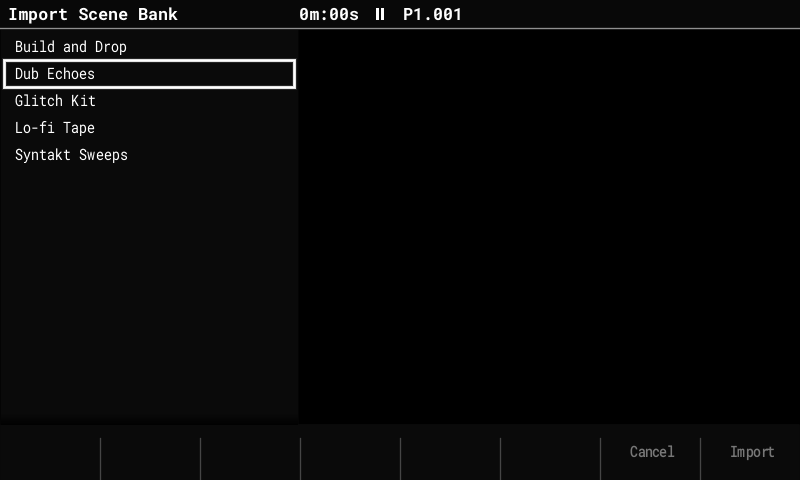
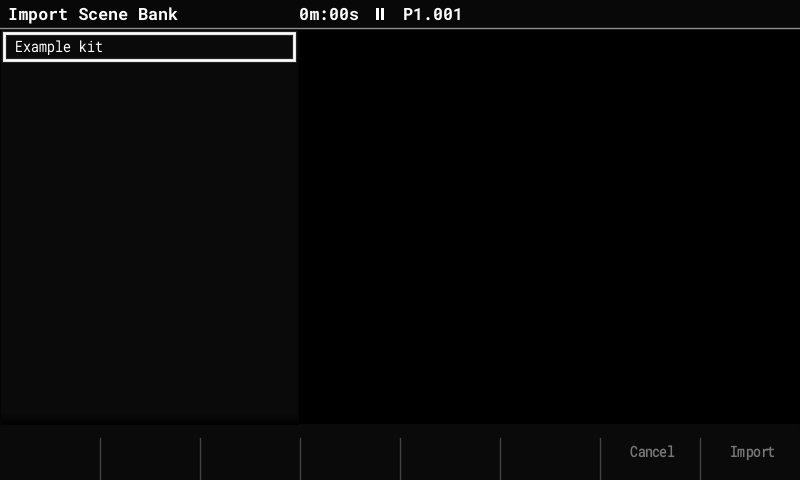
Scene banks: drop the example banks
The user builds their own. The docs screenshot uses one small generated
bank.

Changed region(s): [[0.0, 0.0625, 0.375, 0.2188], [0.0, 0.3125, 0.1562, 0.3438], [0.0, 0.25, 0.125, 0.2812]]

diff --git a/tests/perf_bank_test.cpp b/tests/perf_bank_test.cpp
@@ -1,11 +1,7 @@
 // [I] #70 Performance scene banks: the Performance/Scenes/<name>.txt text
-// format, App load / save, the bank page's F5 Export / F6 Import, and the
-// shipped banks in scene_banks/.
+// format, App load / save and the bank page's F5 Export / F6 Import.
 #include <cstring>
-#include <filesystem>
-#include <fstream>
 #include <memory>
-#include <sstream>
 #include <string>
 
 #include "test.h"
@@ -277,60 +273,4 @@ TEST(perf_bank_page_export_and_import) {
     r.h.tap(btn::Performance);
     CHECK(p.view == View::Play);
     CHECK(!p.bankFiles);
-}
-
-TEST(perf_bank_shipped_files_parse) {
-    namespace fs = std::filesystem;
-    std::error_code ec;
-    int files = 0;
-    for (const auto& de : fs::directory_iterator("../scene_banks", ec)) {
-        if (de.path().extension() != ".txt") continue;
-        ++files;
-        std::ifstream f(de.path());
-        std::stringstream ss;
-        ss << f.rdbuf();
-        const std::string t = ss.str();
-        CHECK(t.size() < pbank::kTextMax);
-        CHECK(de.path().stem().string().size() <= size_t(pbank::kNameMax));
-        PerfBank b;
-        CHECK(decodePerfBank(t.data(), t.size(), b));
-        // Every column line names a known type, every value is in range
-        // (the decode would read it as 0), and each scene drives a column
-        // that has a type.
-        int columns = 0, typed = 0;
-        for (size_t k = 0; k < t.size(); k = t.find('\n', k) + 1) {
-            if (t.compare(k, 7, "column ") != 0) {
-                if (t.find('\n', k) == std::string::npos) break;
-                continue;
-            }
-            ++columns;
-            const size_t eq = t.find('=', k), colon = t.find(':', k), end = t.find('\n', k);
-            if (colon < end) {
-                ++typed;
-                const std::string vals = t.substr(colon + 1, std::min(end, t.find('@', k)) - colon - 1);
-                std::stringstream vs(vals);
-                std::string tok;
-                int c = std::stoi(t.substr(k + 7, eq - k - 7)) - 1, row = 0;
-                while (vs >> tok) {
-                    if (tok == "-") {
-                        ++row;
-                        continue;
-                    }
-                    const int v = std::stoi(tok);
-                    const int16_t want = int16_t(b.type[c] == perf::kMidiCc ? v + 1 : v);
-                    CHECK_EQ(b.value[c][row], want);
-                    ++row;
-                }
-            }
-            if (t.find('\n', k) == std::string::npos) break;
-        }
-        int types = 0;
-        for (uint8_t ty : b.type) types += ty != 0;
-        CHECK_EQ(types, typed);
-        CHECK_EQ(columns, PerfBank::kSlots);
-        for (const auto& sc : b.scene)
-            for (int c = 0; c < PerfBank::kSlots; ++c)
-                if (sc[c]) CHECK(b.type[c] != 0);
-    }
-    CHECK(files >= 4);
 }

diff --git a/docs/guide/performance.md b/docs/guide/performance.md
@@ -109,25 +109,6 @@ With **Performance presets** set to **Global** in Config (the default), the colu
 shared by every project, so importing a bank changes them everywhere, just as editing
 a column does. The scenes always belong to the project.
 
-### Banks that come with OpenTracker
-
-These banks are in `scene_banks/` in the source and ship in each release as
-`SceneBanks.zip`. Unzip it to the root of the card. Each file starts with a few comment
-lines on how to play it.
-
-| Bank | For | A → B |
-|---|---|---|
-| **Build and Drop** | Transitions: filters, rolls, short loops, risers, fades | Dry → Riser (push it up through a build) |
-| **Dub Echoes** | Throwing tracks into the delay and reverb, filtering, reversing | Dry → Echo throw |
-| **Glitch Kit** | Rolls, loop lengths, play modes, sample start / end, crushing | Clean → Chaos |
-| **Lo-fi Tape** | Bit depth, drive, radio and record filters, slowed down | Clean → Cassette |
-| **Syntakt Sweeps** | MIDI CC columns for a Syntakt track (needs the Syntakt [MIDI preset](midi-presets.md) on MIDI instrument 1) plus sample-side FX | Home → Open |
-
-![Build and Drop imported](../images/scene-bank-kit.png)
-
-Some scenes in these banks keep track 1 out of the effects (its F key off), so a kick
-placed there stays dry.
-
 ### The bank file
 
 Bank files are text, so they can be written or changed on a computer:

diff --git a/docs/index.md b/docs/index.md
@@ -21,7 +21,7 @@ upstream OpenTracker and the Tracker Mini still open them.
 |---|---|
 | [DX7 synth](guide/dx7.md) | A 6-operator FM engine that plays Yamaha DX7 voices from `.syx` banks. |
 | [Live resampling](guide/resampling.md) | Record the master, one track or Line in while the pattern keeps playing; slice the take and place it on a track. |
-| [Performance mode](guide/performance.md) | 16 scenes with a crossfader, scene banks you can export and import (example banks included), master FX (DJ filter, tape stop) and MIDI CC columns that play an external synth. |
+| [Performance mode](guide/performance.md) | 16 scenes with a crossfader, scene banks you can export and import, master FX (DJ filter, tape stop) and MIDI CC columns that play an external synth. |
 | [Song mode](guide/song-mode.md) | Repeat counts, a Performance scene per song slot, and fader ramps between scenes. |
 | [Multisample instruments](guide/multisample.md) | Load an `.sfz` as one instrument that plays the nearest sampled note across the keys. |
 | [USB audio](guide/usb-audio.md) | The Tracker as a USB sound card: play and sample the computer's audio, record the Tracker on the computer. |

diff --git a/README.md b/README.md
@@ -97,9 +97,7 @@ Screenshots are from the desktop simulator, which runs the same code as the firm
 - In edit mode, a tapped row's value can be changed with the encoder without holding the pad.
 - **Scene bank files:** on the bank page, **F5 Export** saves the columns and the 16 scenes
   to `Performance/Scenes/<name>.txt` (a text file), and **F6 Import** loads one into another
-  project. Releases include `SceneBanks.zip` with five banks to play with: Build and Drop,
-  Dub Echoes, Glitch Kit, Lo-fi Tape and Syntakt Sweeps
-  ([#70](https://github.com/syamajala/polyend-tracker-re/issues/70)).
+  project ([#70](https://github.com/syamajala/polyend-tracker-re/issues/70)).
 - The scene bank, the FX toggles and the master FX types are stored in `perf_scenes.bin` next to `project.mt`;
   stock firmware sees those slots as empty.
 

diff --git a/docs/dev/workflow.md b/docs/dev/workflow.md
@@ -50,8 +50,8 @@ Projects must keep opening in stock firmware, upstream OpenTracker and the Track
 - Files on the card outside a project are text, so people can edit them on a computer:
   `MidiPresets/<name>.txt` (`formats/midi_preset.h`) and `Performance/Scenes/<name>.txt`
   scene banks (`formats/perf_bank.h`). Both use `key = value` lines, `#` comments and
-  ignore unknown keys, so later versions can add keys. The shipped examples are in
-  `midi_presets/` and `scene_banks/`; host tests parse each one.
+  ignore unknown keys, so later versions can add keys. The shipped MIDI presets are in
+  `midi_presets/`; host tests parse each one.
 
 ## Code conventions
 
